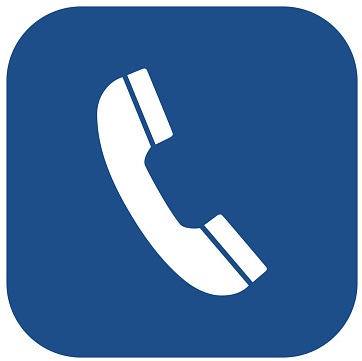
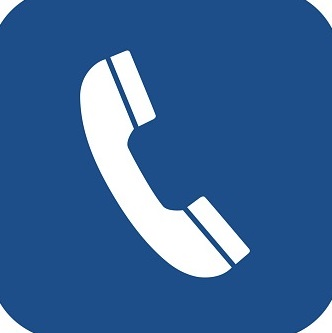
circle contacts

diff --git a/frontend/src/components/ContactItem/ContactItem.tsx b/frontend/src/components/ContactItem/ContactItem.tsx
@@ -1,10 +1,5 @@
 import React from 'react'
 import Card from 'react-bootstrap/Card';
-import { useSelector } from 'react-redux';
-import { aboutUsItems } from '../../lang';
-import { RootState } from '../../store';
-import { fixLanguage } from '../../utils';
-import classes from '../Personnel/Personnel.module.css'
 
 interface ContactItemProps {
     itemKey: string;
@@ -13,31 +8,13 @@ interface ContactItemProps {
 
 const ContactItem: React.FC<ContactItemProps> = ({ itemKey }) => {
 
-    let language = useSelector(
-        (state: RootState) => state.Language.lang
-    ) as string;
+
 
     return (
         <Card border="light" style={{ width: '18rem' }}>
             <div style={{ textAlign: 'center' }}>
-                <img className={classes.pic} style={{border:'none'}}  src={require(`../../images/contact/${itemKey}.png`)} alt="" />
+                <img style={{border:'none', width: '180px', borderRadius: '65%'}}  src={require(`../../images/contact/${itemKey}.png`)} alt="" />
             </div>
-            {/* <Card.Body>
-                <div style={{ textAlign: 'center' }}><Card.Title>Phone Number</Card.Title></div>
-                <div style={{ textAlign: 'center', margin: '15px auto', color: 'grey', fontWeight: '500' }}>
-                    <Card.Text>
-                        Call Phone
-                    </Card.Text>
-                </div>
-                <div style={{ marginTop: '15px' }}>
-                    <Card.Text>
-                        Some quick example text to build on the card title and make up the
-                        bulk of the card's content.
-                        Some quick example text to build on the card title and make up the
-                        bulk of the card's content.
-                    </Card.Text>
-                </div>
-            </Card.Body> */}
         </Card>
     )
 }

diff --git a/frontend/src/components/Home/Home.module.css b/frontend/src/components/Home/Home.module.css
@@ -1,9 +1,9 @@
 @import url('https://fonts.googleapis.com/css2?family=Akaya+Kanadaka&display=swap');
 .titleSectionEN {
     padding: 100px;
-    position: relative;
-    left: calc(-50vw + 49.3%);
-    width: 100vw;
+    position: relative;             /*escape container*/
+    left: calc(-50vw + 49.3%);      /*escape container*/
+    width: 100vw;                   /*escape container*/
     margin: 0 0 0 0px;
     background: linear-gradient(90deg, rgb(186, 243, 255)gb(255, 255, 255) 81%);
     background-position: 50% 99%;
